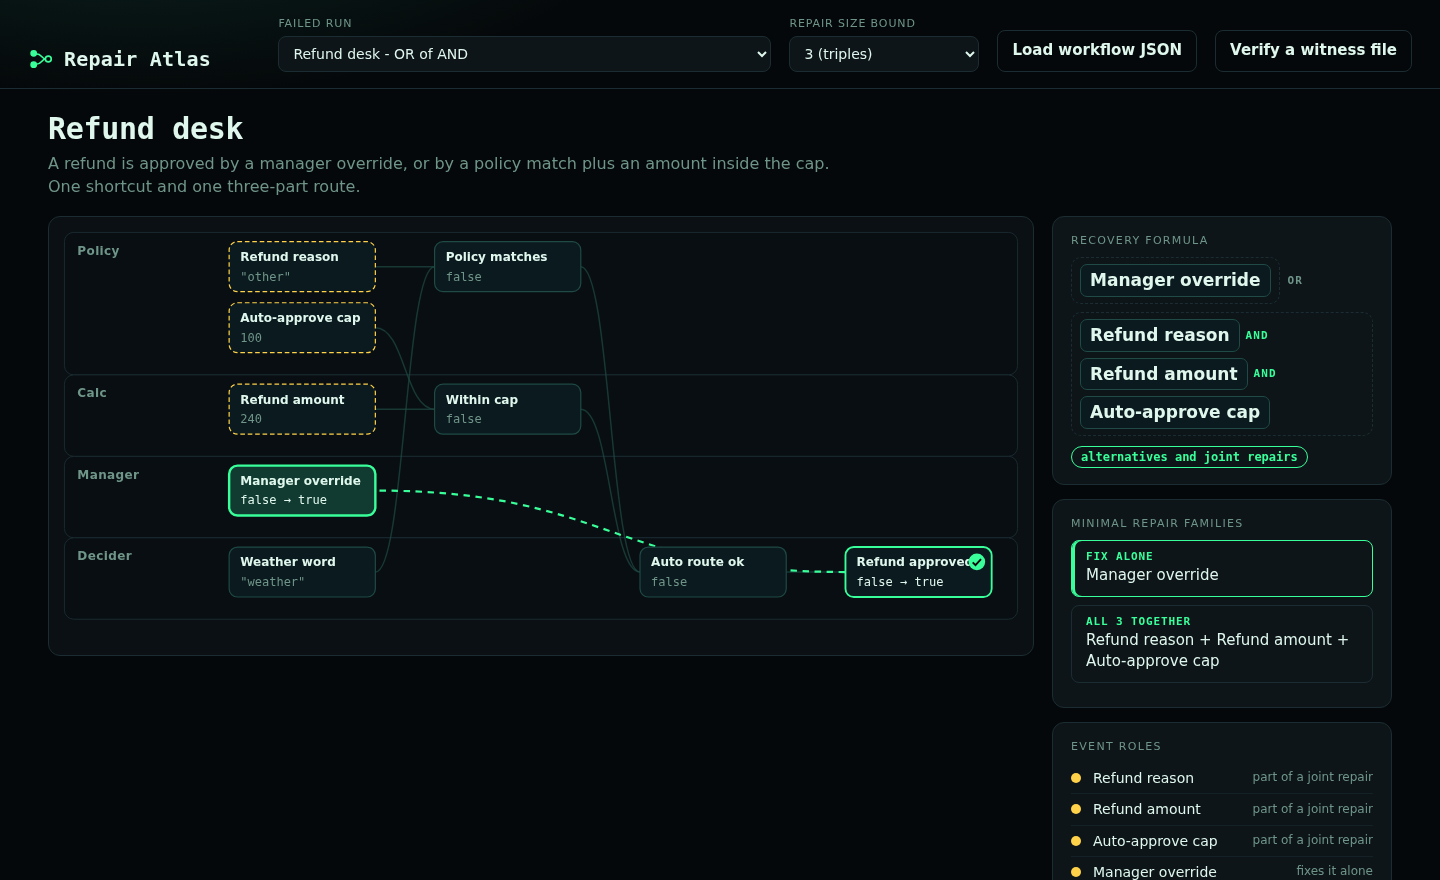
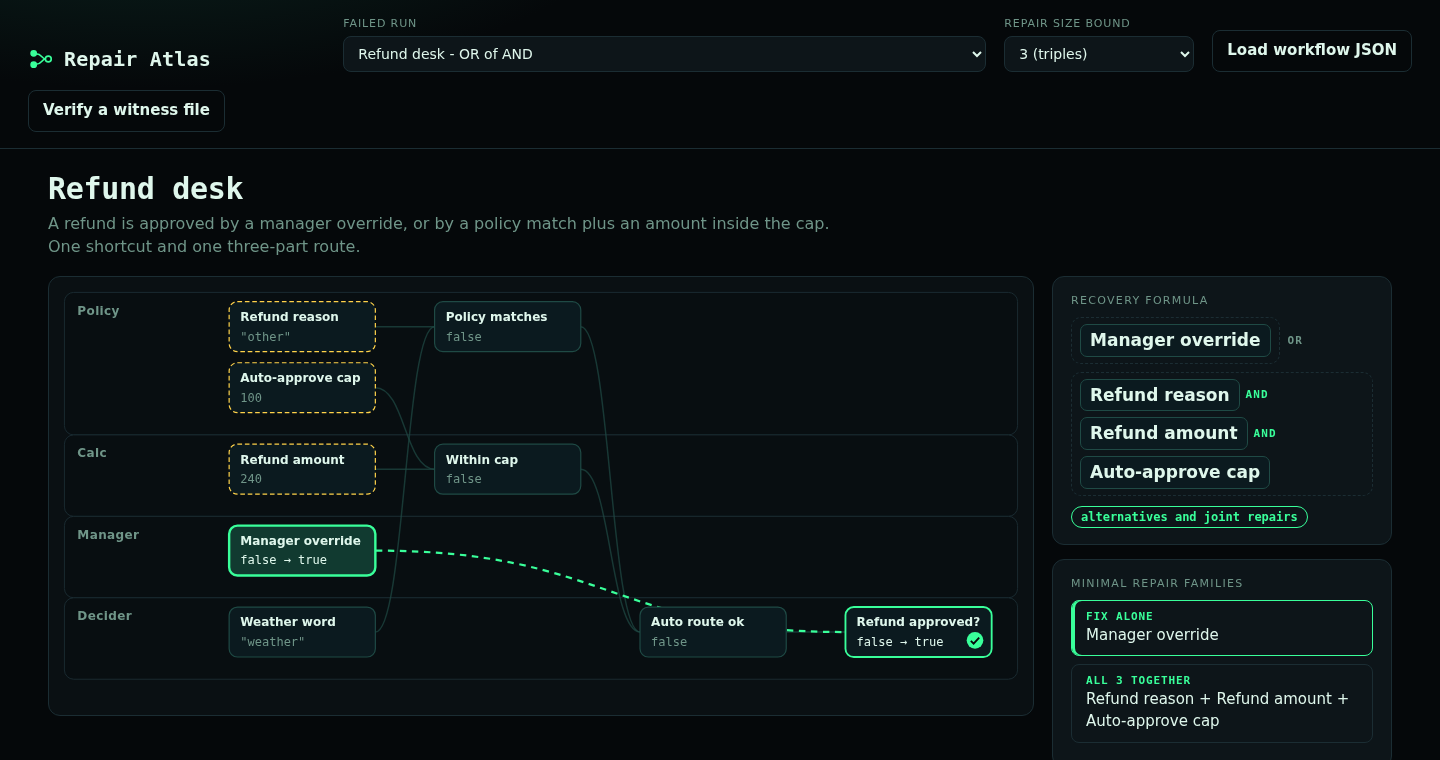
UI polish: sink badge, narrow layout, wording

diff --git a/test/ui.test.js b/test/ui.test.js
@@ -1,0 +1,42 @@
+import test from 'node:test';
+import assert from 'node:assert/strict';
+import { execFileSync, spawn } from 'node:child_process';
+import { existsSync } from 'node:fs';
+import { compile } from '../src/model.js';
+import { layout, NODE } from '../ui/layout.js';
+import { fixtureFiles, loadFixture } from './helpers.js';
+
+test('layout: no two events overlap, every event sits inside its agent lane', () => {
+  for (const f of fixtureFiles) {
+    const c = compile(loadFixture(f)); const L = layout(c);
+    const boxes = [...L.pos.entries()];
+    for (let i = 0; i < boxes.length; i++) for (let j = i + 1; j < boxes.length; j++) {
+      const [, a] = boxes[i], [, b] = boxes[j];
+      const apart = a.x + NODE.w <= b.x || b.x + NODE.w <= a.x || a.y + NODE.h <= b.y || b.y + NODE.h <= a.y;
+      assert.ok(apart, `${f}: ${boxes[i][0]} overlaps ${boxes[j][0]}`);
+    }
+    for (const [id, p] of boxes) {
+      const lane = L.lanes.find((l) => l.agent === p.agent);
+      assert.ok(p.y >= lane.y && p.y + NODE.h <= lane.y + lane.h + 14, `${f}: ${id} outside lane`);
+      assert.ok(p.x + NODE.w <= L.width && p.y + NODE.h <= L.height, `${f}: ${id} outside canvas`);
+    }
+    // arrows always point left to right
+    for (const e of c.events) for (const a of e.args ?? []) assert.ok(L.pos.get(a).x < L.pos.get(e.id).x, `${f}: ${a} -> ${e.id}`);
+  }
+});
+
+const chrome = ['/usr/bin/google-chrome', '/usr/bin/chromium'].find(existsSync);
+test('browser smoke: every fixture renders the formula and zero page errors', { skip: !chrome && 'no chrome installed' }, async () => {
+  const srv = spawn('node', ['scripts/serve.js'], { env: { ...process.env, PORT: '5191' }, stdio: 'pipe' });
+  await new Promise((r) => srv.stdout.once('data', r));
+  try {
+    for (const f of fixtureFiles) {
+      const key = f.split('-')[0];
+      const dom = execFileSync(chrome, ['--headless=new', '--no-sandbox', '--disable-gpu', '--virtual-time-budget=4000', '--dump-dom', `http://127.0.0.1:5191/?f=${key}`], { encoding: 'utf8', stdio: ['ignore', 'pipe', 'ignore'] });
+      assert.match(dom, /id="formula"[^>]*>(?!\s*<\/div>)/, f);
+      assert.ok(dom.includes('class="node'), `${f}: nodes drawn`);
+      assert.ok(!/class="err"/.test(dom), `${f}: no error panel`);
+      assert.ok(/Minimal: the repaired run passes/.test(dom), `${f}: proof rendered`);
+    }
+  } finally { srv.kill(); }
+});

diff --git a/ui/style.css b/ui/style.css
@@ -31,7 +31,7 @@ main { max-width: 1400px; margin: 0 auto; padding: 22px 28px 40px; display:grid;
 .story p { margin:6px 0 0; color: var(--mute); max-width: 78ch; font-size:16px; }
 .stage { display:grid; grid-template-columns: minmax(0,1fr) 340px; gap:18px; align-items:start; }
 .graphwrap { background: var(--bg2); border:1px solid var(--line); border-radius: var(--r); padding: 8px; overflow:auto; }
-#graph { width:100%; height:auto; display:block; min-height: 300px; }
+#graph { width:100%; min-width: 860px; height:auto; display:block; min-height: 300px; }
 .card { background: var(--panel); border:1px solid var(--line); border-radius: var(--r); padding:16px 18px; }
 [data-theme="b"] .card, [data-theme="b"] .graphwrap { box-shadow: 3px 3px 0 var(--ink); border-color: var(--ink); }
 .side { display:grid; gap:14px; }
@@ -92,3 +92,6 @@ dialog textarea { width:100%; height: 300px; background: var(--bg2); border:1px 
 dialog menu { display:flex; justify-content:flex-end; gap:10px; padding:0; margin:12px 0 0; }
 .msg { margin-top:8px; font-size:13px; color: var(--mute); white-space:pre-wrap; } .msg.ok { color: var(--good); } .msg.bad { color: var(--bad); }
 @media (max-width: 980px) { .stage { grid-template-columns: 1fr; } .crow { grid-template-columns: 1fr; gap:4px; } }
+main { grid-template-columns: minmax(0, 1fr); }
+main > *, .stage > * { min-width: 0; }
+@media (max-width: 980px) { .stage { grid-template-columns: minmax(0, 1fr); } .prow { grid-template-columns: 14px 1fr; } .prow span { grid-column: 2; } .controls { flex-wrap: wrap; } input[type=range] { width: 100%; } }

diff --git a/ui/app.js b/ui/app.js
@@ -134,7 +134,7 @@ function draw() {
     g.append(val);
     if (checked.has(id)) {
       const k = cur.checks.find((x) => x.event === id);
-      const badge = el('g', { transform: `translate(${NODE.w - 24},8)`, class: k.pass ? 'ok' : 'bad' });
+      const badge = el('g', { transform: `translate(${NODE.w - 26},${NODE.h - 26})`, class: k.pass ? 'ok' : 'bad' });
       badge.append(el('circle', { cx: 8, cy: 8, r: 9 }), el('path', { d: k.pass ? 'M3.5 8.5l3 3 6-6.5' : 'M4.5 4.5l7 7M11.5 4.5l-7 7', fill: 'none', 'stroke-width': 2, class: 'glyph' }));
       g.append(badge);
     }
@@ -168,7 +168,7 @@ function renderCompare() {
   $('#compare').replaceChildren(
     row('Replay everything', cm.exhaustive, 'accuracy baseline', true),
     row('Atlas search', cm.complete, cm.completeMatchesExhaustive ? 'same family as baseline' : 'MISMATCH', cm.completeMatchesExhaustive),
-    row('Paper pair rule', cm.paper, cm.paper.matchesExhaustive ? 'same family' : `misses ${cm.paper.missed.join(', ')}`, cm.paper.matchesExhaustive),
+    row('Published pair rule', cm.paper, cm.paper.matchesExhaustive ? 'same family' : `outside its declared domain, misses ${cm.paper.missed.join(', ')}`, cm.paper.matchesExhaustive),
     row('One event at a time', cm.singleOnly, cm.singleOnly.matchesExhaustive ? 'same family' : `misses ${cm.singleOnly.missed.join(', ')}`, cm.singleOnly.matchesExhaustive),
   );
 }

diff --git a/test/engine.test.js b/test/engine.test.js
@@ -28,7 +28,7 @@ test('no single-event shortcut hides joint repairs', () => {
   assert.deepEqual(d.comparison.singleOnly.missed, ['line_items+tax_amount']);
 });
 
-test('the published pair rule misses chained and 3-way repairs; complete search does not', () => {
+test('the published pair rule (declared domain: pairs, incomparable events) does not cover chained or 3-way repairs; complete search does', () => {
   const seq = diagnose(fx('sequential-handoff'));
   assert.equal(seq.comparison.paper.matchesExhaustive, false);
   assert.equal(seq.comparison.completeMatchesExhaustive, true);
